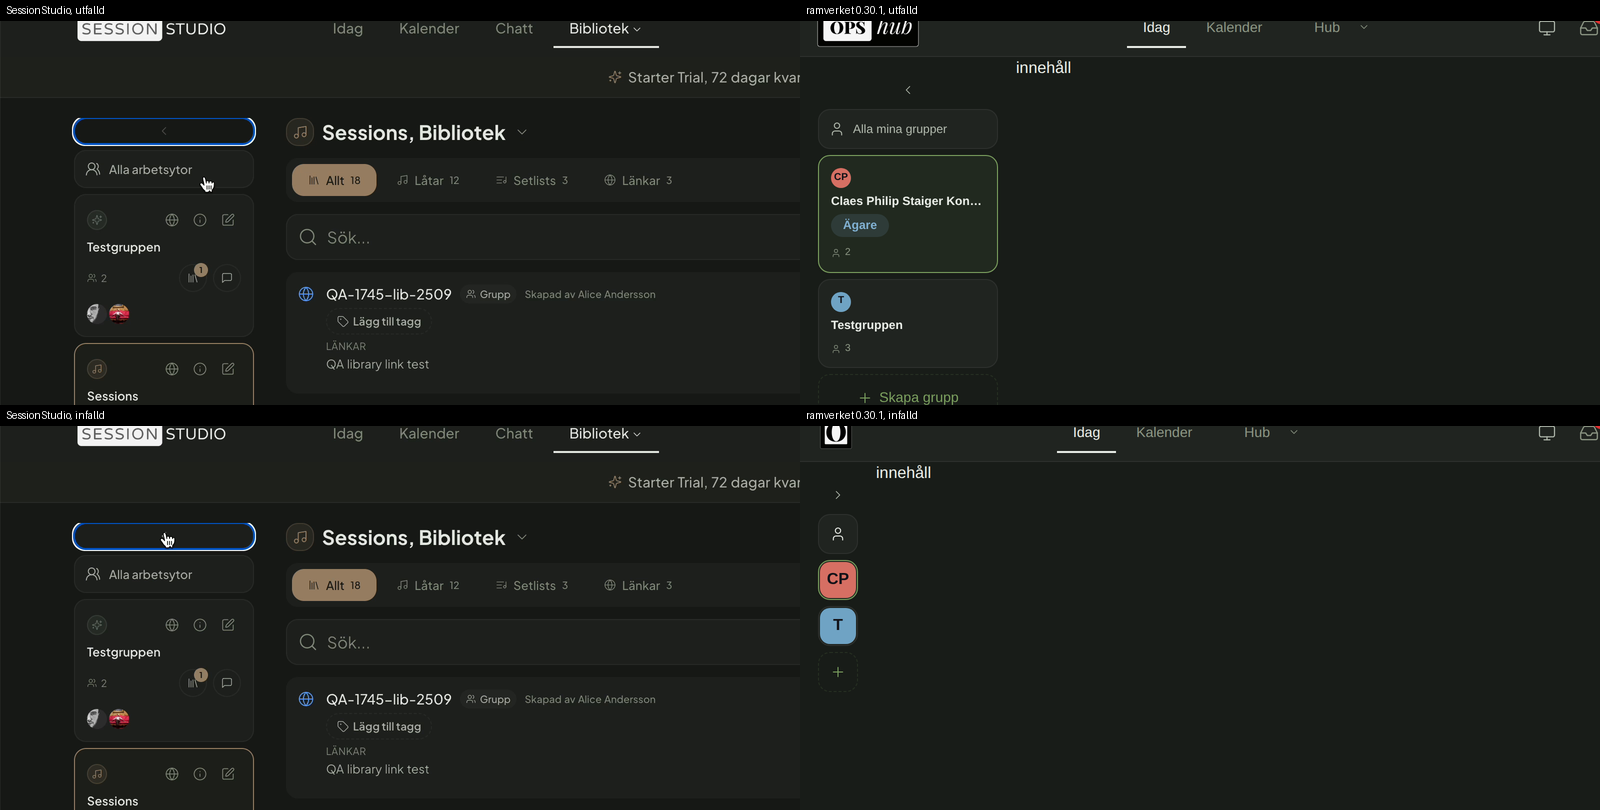
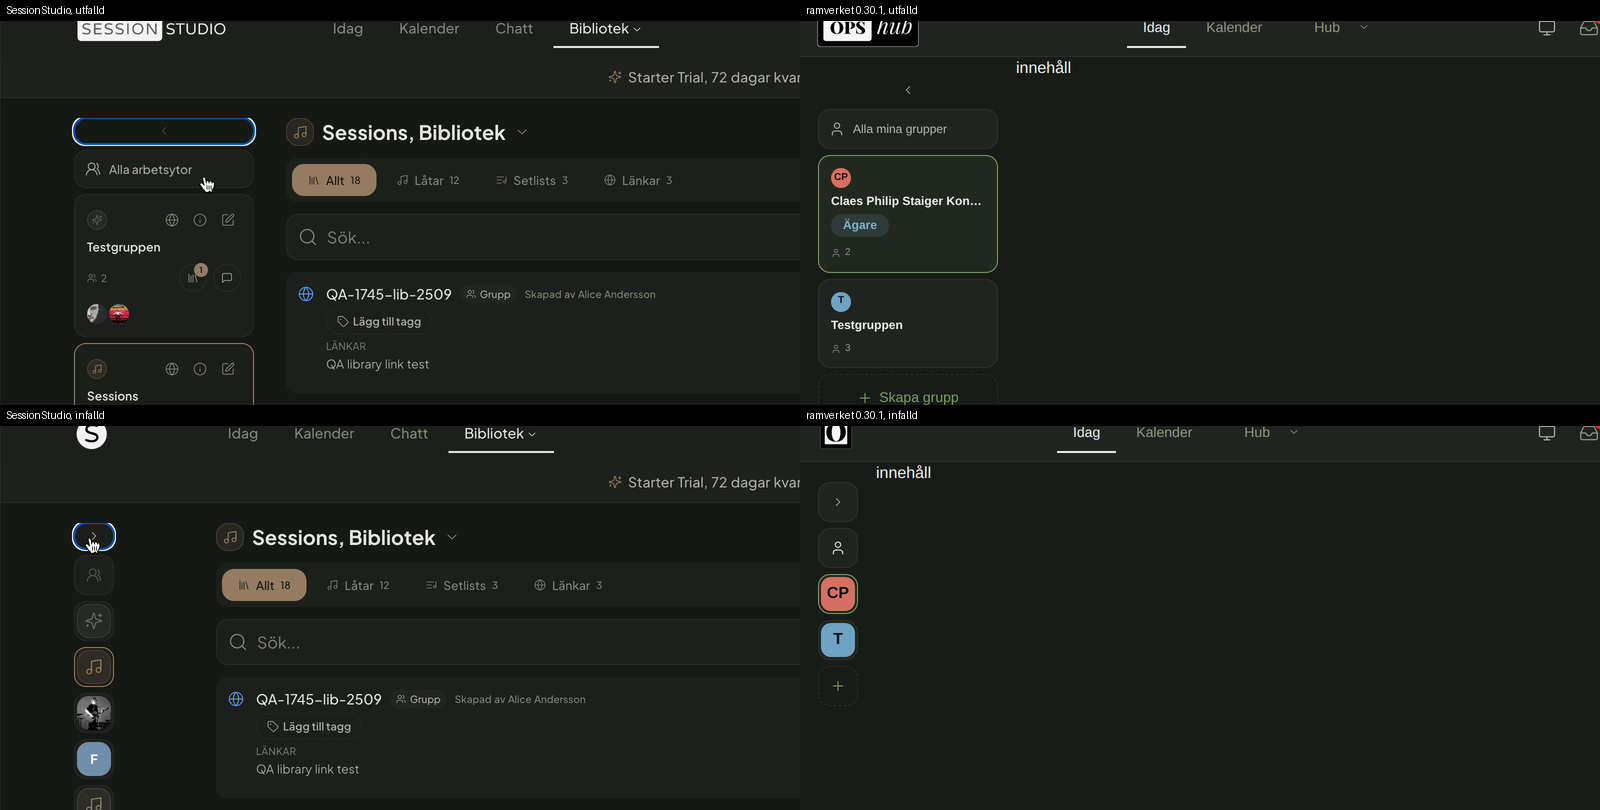
0.30.1: infälld remsa som SS, varje post en 40 px ruta med kant och märket 34 px
Claude-Session: https://claude.ai/code/session_01MtEbCzeFTkDPr7xPiiaUpz

diff --git a/src/components/OpsGruppanel.jsx b/src/components/OpsGruppanel.jsx
@@ -456,7 +456,7 @@ function GruppanelRemsa({ grupper, aktiv, onValj, sprak, allaEtikett }) {
                 vald ? "border-accent bg-accent/10 shadow-sm" : "border-line bg-surface hover:border-line-strong",
               )}
             >
-              <OpsIdentity name={namn} seed={g.id} imageUrl={g.bild || undefined} size="md" />
+              <OpsIdentity name={namn} seed={g.id} imageUrl={g.bild || undefined} size="rail" />
             </button>
           </li>
         );
@@ -537,7 +537,14 @@ export function OpsGruppanel({
         type="button"
         onClick={vaxlaInfalld}
         aria-label={kollapsad ? fallUtEtikett : kollapsaEtikett}
-        className={cx("flex w-full items-center justify-center p-1.5 text-ink-secondary hover:bg-sunken hover:text-ink", RADIE, "focus-visible:outline-2 focus-visible:outline-offset-2 focus-visible:outline-accent")}
+        // ⛔ 0.30.1: INFÄLLD ÄR KNAPPEN SAMMA 40 PX-RUTA MED KANT SOM REMSANS ÖVRIGA POSTER (CP:s inspelning,
+        // SS infällda ram: en ruta med chevron, inte en naken pil). Utfälld är den full bredd överst (`AppSidebar.jsx:51-59`).
+        className={cx(
+          "flex items-center justify-center text-ink-secondary",
+          kollapsad ? "size-10 border border-line bg-surface hover:border-line-strong hover:text-ink" : "w-full p-1.5 hover:bg-sunken hover:text-ink",
+          RADIE,
+          "focus-visible:outline-2 focus-visible:outline-offset-2 focus-visible:outline-accent",
+        )}
       >
         {kollapsad ? <ChevronHogerIkon size={14} /> : <ChevronVansterIkon size={14} />}
       </button>

diff --git a/src/components/OpsIdentity.jsx b/src/components/OpsIdentity.jsx
@@ -35,6 +35,8 @@ const STORLEKAR = {
   xs: "size-5 text-liten",
   sm: "size-6 text-xs",
   md: "size-9 text-base",
+  /** 34 px (0.30.1): SessionStudios märke i den infällda remsan, `AppSidebar.jsx:95` `GroupMark sizePx={34}` i en 40 px ruta med kant. */
+  rail: "size-8.5 text-base",
   lg: "size-12 text-md",
   /** 28 px (0.30.0, #173): SessionStudios avatar i toppraden, `AppHeader.jsx:463`. Alltid rund, se `rund`. */
   avatar: "size-7 text-liten",
@@ -45,7 +47,7 @@ const STORLEKAR = {
  * @param {string} props.name Visningsnamn. Används för initialer och som alternativtext.
  * @param {string} props.seed Stabilt id som bestämmer tonen NÄR `tone` inte skickas in. Aldrig namnet.
  * @param {string} [props.imageUrl]
- * @param {"xs"|"sm"|"md"|"lg"|"avatar"} [props.size]
+ * @param {"xs"|"sm"|"md"|"rail"|"lg"|"avatar"} [props.size]
  * @param {import("react").ComponentType<{size?: number}>} [props.icon] En egen ikon i stället för initialer,
  *   ritad bara när `imageUrl` saknas (#164, korrigering C: "standardikon plus färg kräver ingen Storage").
  *   Ramverket känner inte till vilka ikoner som finns, appen skickar in komponenten (se `src/lib/profilikoner.js`
